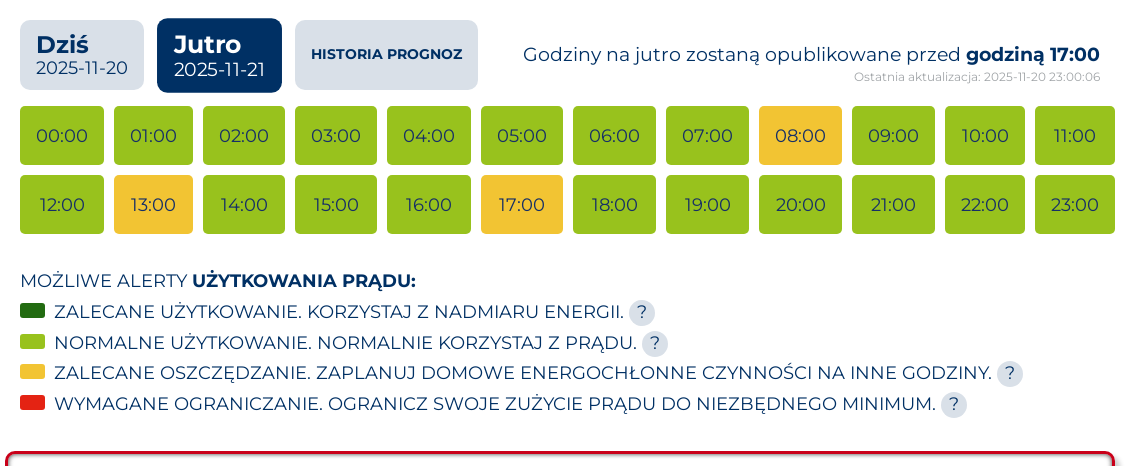
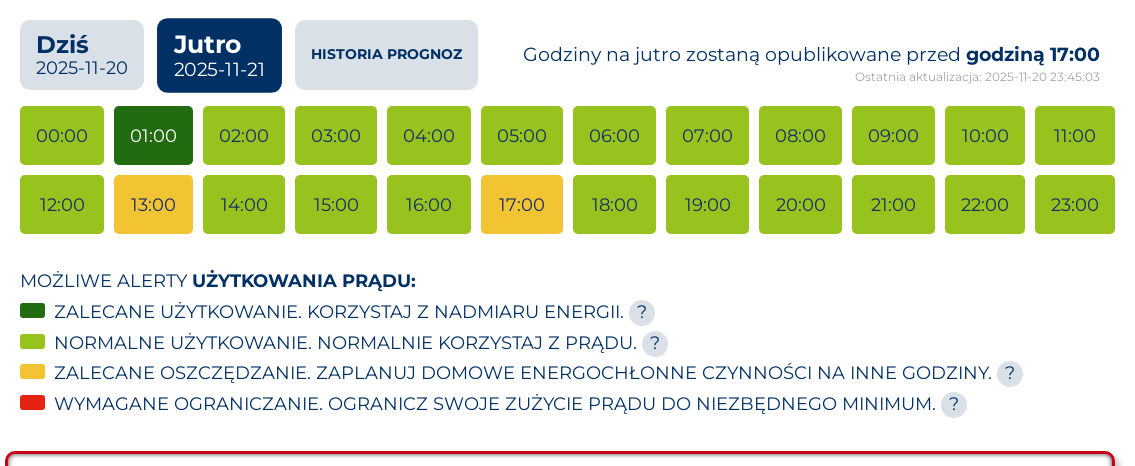
site: update 2025-11-21 00:02 UTC

Changed region(s): [[0.6476, 0.2103, 0.7401, 0.3605], [0.0925, 0.2103, 0.185, 0.3605], [0.7401, 0.1502, 0.9559, 0.1803]]

diff --git a/site/html_01_tabele_wykresy_g14_today_tomorrow.html b/site/html_01_tabele_wykresy_g14_today_tomorrow.html
@@ -115,7 +115,7 @@
 <section class="hero">
   <div class="kicker">Dane</div>
   <h1>Taryfa G14 — dzisiaj i jutro</h1>
-  <p class="muted">Strona wygenerowana: 2025-11-21 00:01:19</p>
+  <p class="muted">Strona wygenerowana: 2025-11-21 01:02:01</p>
   <p class="muted">Dane G14 (dzisiaj) — ostatnia próbka: 2025-11-21 23:45:00</p>
   <p class="muted">Dane G14 (jutro) — ostatnia próbka: brak danych</p>
 </section>
@@ -126,10 +126,10 @@
   <p class="muted">Dzień danych: 2025-11-21</p>
 
   <div class="legend">
-    <span class="chip"><span class="box a"></span>&nbsp;<strong>a</strong> avg: 0,617 PLN/kWh</span>
+    <span class="chip"><span class="box a"></span>&nbsp;<strong>a</strong> avg: 0,605 PLN/kWh</span>
     <span class="chip"><span class="box b"></span>&nbsp;<strong>b</strong> avg: 0,677 PLN/kWh</span>
-    <span class="chip"><span class="box c"></span>&nbsp;<strong>c</strong> avg: 0,932 PLN/kWh</span>
-    <span class="chip"><span class="box d"></span>&nbsp;<strong>d</strong> avg: 1,373 PLN/kWh</span>
+    <span class="chip"><span class="box c"></span>&nbsp;<strong>c</strong> avg: 0,957 PLN/kWh</span>
+    <span class="chip"><span class="box d"></span>&nbsp;<strong>d</strong> avg: 1,481 PLN/kWh</span>
   </div>
 
   
@@ -143,10 +143,10 @@
           <tr class="cat-b"><td>00:15</td><td>00:30</td><td>0,643</td><td>b</td></tr>
           <tr class="cat-b"><td>00:30</td><td>00:45</td><td>0,639</td><td>b</td></tr>
           <tr class="cat-a"><td>00:45</td><td>01:00</td><td>0,628</td><td>a</td></tr>
-          <tr class="cat-a"><td>01:00</td><td>01:15</td><td>0,634</td><td>a</td></tr>
-          <tr class="cat-a"><td>01:15</td><td>01:30</td><td>0,620</td><td>a</td></tr>
-          <tr class="cat-a"><td>01:30</td><td>01:45</td><td>0,612</td><td>a</td></tr>
-          <tr class="cat-a"><td>01:45</td><td>02:00</td><td>0,609</td><td>a</td></tr>
+          <tr class="cat-a"><td>01:00</td><td>01:15</td><td>0,584</td><td>a</td></tr>
+          <tr class="cat-a"><td>01:15</td><td>01:30</td><td>0,570</td><td>a</td></tr>
+          <tr class="cat-a"><td>01:30</td><td>01:45</td><td>0,562</td><td>a</td></tr>
+          <tr class="cat-a"><td>01:45</td><td>02:00</td><td>0,559</td><td>a</td></tr>
           <tr class="cat-a"><td>02:00</td><td>02:15</td><td>0,617</td><td>a</td></tr>
           <tr class="cat-a"><td>02:15</td><td>02:30</td><td>0,608</td><td>a</td></tr>
           <tr class="cat-a"><td>02:30</td><td>02:45</td><td>0,607</td><td>a</td></tr>
@@ -171,8 +171,8 @@
           <tr class="cat-c"><td>07:15</td><td>07:30</td><td>1,032</td><td>c</td></tr>
           <tr class="cat-c"><td>07:30</td><td>07:45</td><td>1,047</td><td>c</td></tr>
           <tr class="cat-c"><td>07:45</td><td>08:00</td><td>1,067</td><td>c</td></tr>
-          <tr class="cat-d"><td>08:00</td><td>08:15</td><td>1,220</td><td>d</td></tr>
-          <tr class="cat-d"><td>08:15</td><td>08:30</td><td>1,210</td><td>d</td></tr>
+          <tr class="cat-c"><td>08:00</td><td>08:15</td><td>1,220</td><td>c</td></tr>
+          <tr class="cat-c"><td>08:15</td><td>08:30</td><td>1,210</td><td>c</td></tr>
           <tr class="cat-c"><td>08:30</td><td>08:45</td><td>1,170</td><td>c</td></tr>
           <tr class="cat-c"><td>08:45</td><td>09:00</td><td>1,110</td><td>c</td></tr>
           <tr class="cat-c"><td>09:00</td><td>09:15</td><td>1,092</td><td>c</td></tr>
@@ -191,10 +191,10 @@
           <tr class="cat-c"><td>12:15</td><td>12:30</td><td>0,804</td><td>c</td></tr>
           <tr class="cat-c"><td>12:30</td><td>12:45</td><td>0,805</td><td>c</td></tr>
           <tr class="cat-c"><td>12:45</td><td>13:00</td><td>0,806</td><td>c</td></tr>
-          <tr class="cat-c"><td>13:00</td><td>13:15</td><td>0,882</td><td>c</td></tr>
-          <tr class="cat-c"><td>13:15</td><td>13:30</td><td>0,891</td><td>c</td></tr>
-          <tr class="cat-c"><td>13:30</td><td>13:45</td><td>0,900</td><td>c</td></tr>
-          <tr class="cat-c"><td>13:45</td><td>14:00</td><td>0,929</td><td>c</td></tr>
+          <tr class="cat-d"><td>13:00</td><td>13:15</td><td>1,252</td><td>d</td></tr>
+          <tr class="cat-d"><td>13:15</td><td>13:30</td><td>1,261</td><td>d</td></tr>
+          <tr class="cat-d"><td>13:30</td><td>13:45</td><td>1,270</td><td>d</td></tr>
+          <tr class="cat-d"><td>13:45</td><td>14:00</td><td>1,299</td><td>d</td></tr>
           <tr class="cat-c"><td>14:00</td><td>14:15</td><td>0,965</td><td>c</td></tr>
           <tr class="cat-c"><td>14:15</td><td>14:30</td><td>1,025</td><td>c</td></tr>
           <tr class="cat-c"><td>14:30</td><td>14:45</td><td>1,073</td><td>c</td></tr>
@@ -207,12 +207,12 @@
           <tr class="cat-d"><td>16:15</td><td>16:30</td><td>1,520</td><td>d</td></tr>
           <tr class="cat-d"><td>16:30</td><td>16:45</td><td>1,560</td><td>d</td></tr>
           <tr class="cat-d"><td>16:45</td><td>17:00</td><td>1,680</td><td>d</td></tr>
-          <tr class="cat-d"><td>17:00</td><td>17:15</td><td>1,390</td><td>d</td></tr>
-          <tr class="cat-d"><td>17:15</td><td>17:30</td><td>1,420</td><td>d</td></tr>
-          <tr class="cat-d"><td>17:30</td><td>17:45</td><td>1,360</td><td>d</td></tr>
-          <tr class="cat-d"><td>17:45</td><td>18:00</td><td>1,320</td><td>d</td></tr>
-          <tr class="cat-d"><td>18:00</td><td>18:15</td><td>1,220</td><td>d</td></tr>
-          <tr class="cat-d"><td>18:15</td><td>18:30</td><td>1,180</td><td>d</td></tr>
+          <tr class="cat-d"><td>17:00</td><td>17:15</td><td>1,760</td><td>d</td></tr>
+          <tr class="cat-d"><td>17:15</td><td>17:30</td><td>1,790</td><td>d</td></tr>
+          <tr class="cat-d"><td>17:30</td><td>17:45</td><td>1,730</td><td>d</td></tr>
+          <tr class="cat-d"><td>17:45</td><td>18:00</td><td>1,690</td><td>d</td></tr>
+          <tr class="cat-c"><td>18:00</td><td>18:15</td><td>1,220</td><td>c</td></tr>
+          <tr class="cat-c"><td>18:15</td><td>18:30</td><td>1,180</td><td>c</td></tr>
           <tr class="cat-c"><td>18:30</td><td>18:45</td><td>1,140</td><td>c</td></tr>
           <tr class="cat-c"><td>18:45</td><td>19:00</td><td>1,110</td><td>c</td></tr>
           <tr class="cat-c"><td>19:00</td><td>19:15</td><td>1,088</td><td>c</td></tr>

diff --git a/site/html_02_raport_ze_stanu_teraz.html b/site/html_02_raport_ze_stanu_teraz.html
@@ -18,7 +18,7 @@
   </div>
 
   <section class="hero">
-    <div class="kicker">Ostatni odczyt: 21.11.2025 00:00</div>
+    <div class="kicker">Ostatni odczyt: 21.11.2025 01:00</div>
     <h1>Raport ze stanu teraz</h1>
     <p>
       Taryfy Tauron:
@@ -42,7 +42,7 @@
       <tbody>
         <tr>
           <th style="width:40%;">Czas odczytu</th>
-          <td>21.11.2025 00:00</td>
+          <td>21.11.2025 01:00</td>
         </tr>
         <tr>
           <th>Położenie</th>
@@ -62,19 +62,19 @@
       <tbody>
         <tr>
           <th style="width:40%;">Produkcja PV dzisiaj [kWh]</th>
-          <td>2.40</td>
+          <td>0.00</td>
         </tr>
         <tr>
           <th>Zużycie energii dzisiaj [kWh]</th>
-          <td>7.90</td>
+          <td>0.20</td>
         </tr>
         <tr>
           <th>Energia pobrana z sieci dzisiaj [kWh]</th>
-          <td>9.10</td>
+          <td>0.30</td>
         </tr>
         <tr>
           <th>Zużycie z sieci dzisiaj [kWh]</th>
-          <td>3.90</td>
+          <td>4.00</td>
         </tr>
         <tr>
           <th>Zużycie z własnego systemu dzisiaj [kWh]</th>
@@ -106,7 +106,7 @@
         </tr>
         <tr>
           <th>Moc z / do sieci [W]</th>
-          <td>479</td>
+          <td>466</td>
         </tr>
         <tr>
           <th>Moc z / do baterii [W]</th>
@@ -150,7 +150,7 @@
         </tr>
         <tr>
           <th>Napięcie [V]</th>
-          <td>238.25</td>
+          <td>237.05</td>
         </tr>
         <tr>
           <th>Prąd [A]</th>

diff --git a/site/html_03_g13_g14_porownanie.html b/site/html_03_g13_g14_porownanie.html
@@ -18,7 +18,7 @@
   </div>
 
   <section class="hero">
-    <div class="kicker">Porównanie kosztów w taryfach G13 i G14, ostatni pomiar dla 15 min. 0 s wykonano 2025-11-21 00:01:20</div>
+    <div class="kicker">Porównanie kosztów w taryfach G13 i G14, ostatni pomiar dla 15 min. 0 s wykonano 2025-11-21 01:02:03</div>
     <h1>Koszt energii</h1>
     <p>
       Taryfy Tauron:
